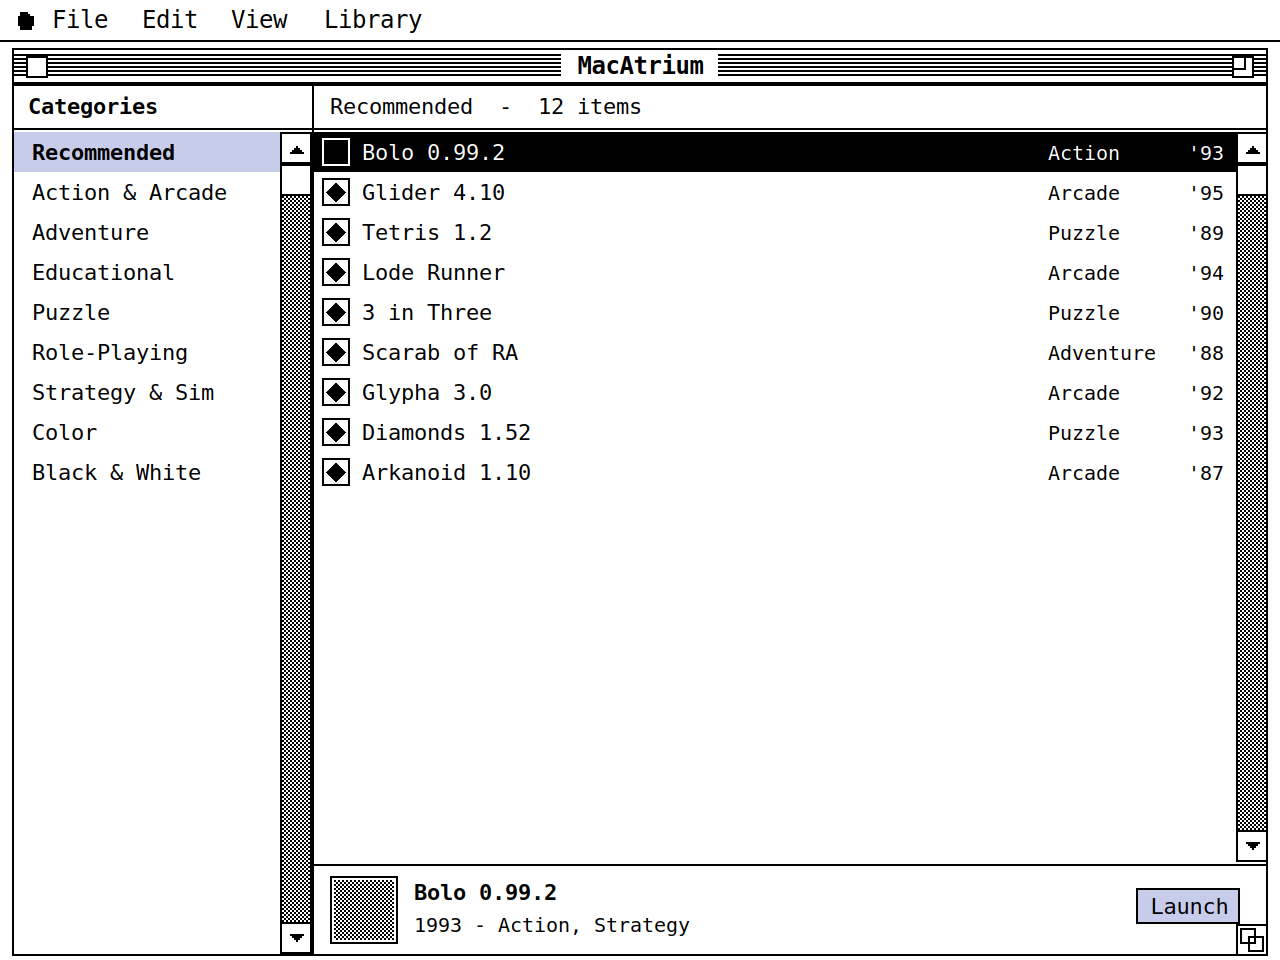
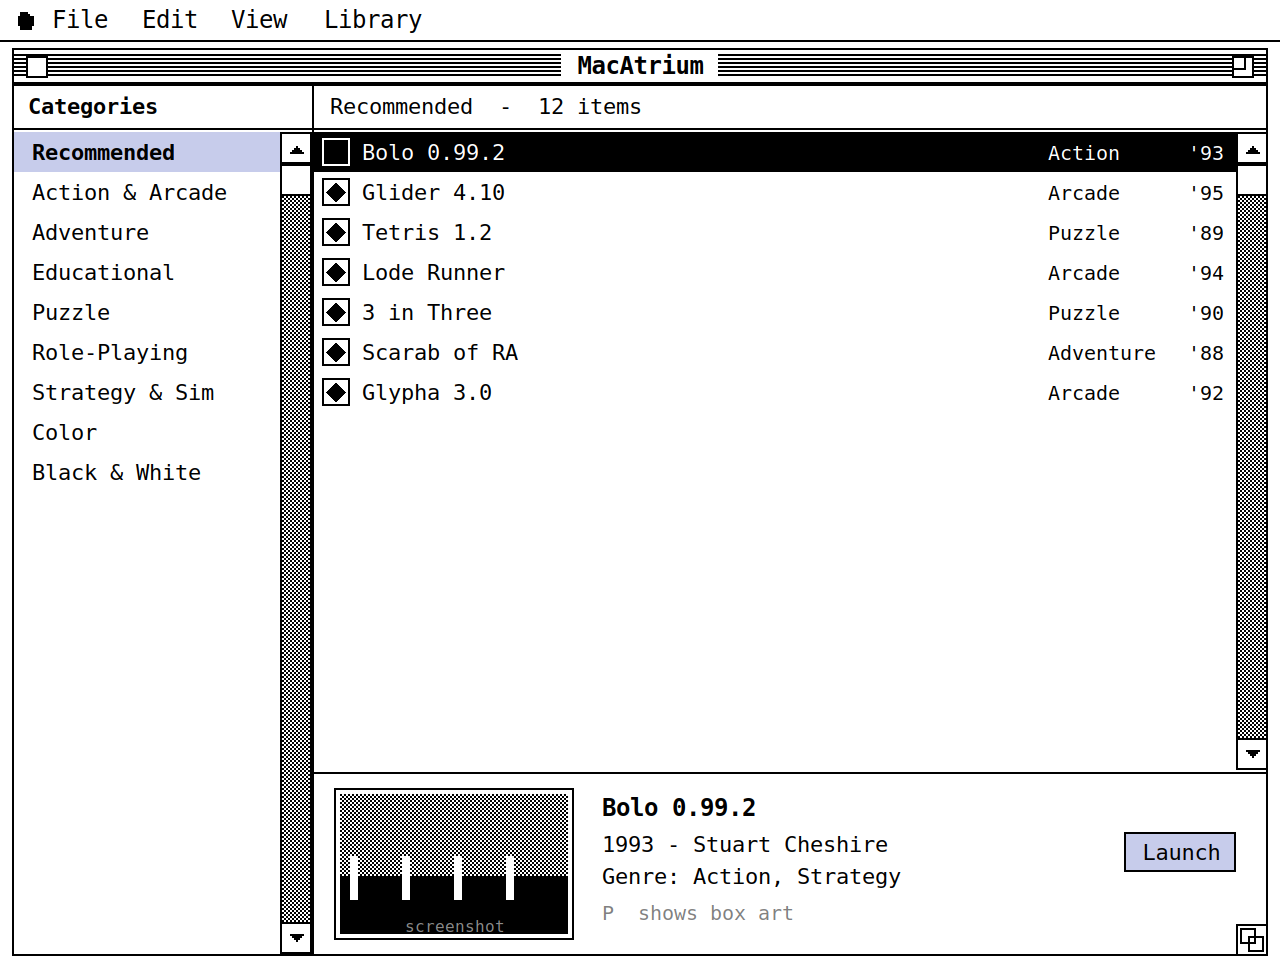
docs: 27 — iterate two-pane wireframe (screenshot focus) + View/ESC menus
Chosen direction: a user-configurable View menu (Carousel default + two-pane
List), keyboard selection in every view, and the ESC quick-menu retained
alongside the real menu bar. Updated wireframe 3 to focus the detail on the
screenshot (box art -> P key); added 3b showing the View menu (configurable) and
the ESC quick-menu coexisting.

diff --git a/docs/27-classic-ui-redesign.md b/docs/27-classic-ui-redesign.md
@@ -72,3 +72,19 @@ keyboard-first carousel — while opening the door to the more Finder-like views
   the mouse paging is native; arrows page the carousel / scroll the grid.
 - Theme: drop the current "light" palette; use white/black/50%-dither and a pale
   highlight (colour) or invert (B&W). Wire the Chicago bitmap font for chrome.
+
+## Decision (chosen direction)
+
+- **View menu, user-configurable**, offering **by Carousel (default)** and **by
+  List / two-pane browser** (wireframe 3); icon grid (2) optional later. The
+  choice persists. (See `wireframes/3b-view-menu-and-esc.png`.)
+- **Iterating on the two-pane (wireframe 3):** the detail strip focuses on the
+  **screenshot**, not box art — box art moves to the `P` key (consistent with the
+  current launcher). See the updated `wireframes/3-two-pane-browser.png`.
+- **Keyboard selection works in every view** (arrows move the selection — shown as
+  the inverted/pale row; Return launches). Shortcuts live in the menus (⌘) the
+  classic way.
+- **The ESC quick-menu stays** (Settings / About / Show Finder / Restart / Shut
+  Down) for keyboard + controller use, coexisting with the real menu bar — a
+  deliberate, slightly-non-classic concession for the appliance/controller model.
+- Build the **full layout in one go** once the wireframe is settled.